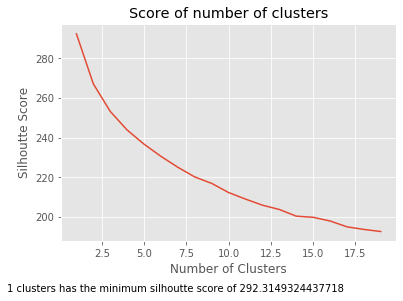
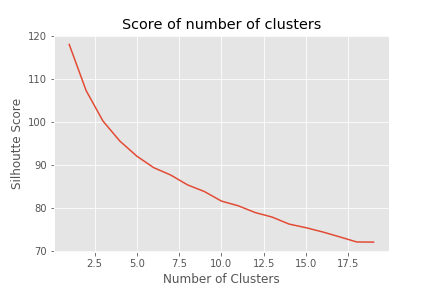
added labels to cluster

diff --git a/Neural Network/NeuralNetwork.py b/Neural Network/NeuralNetwork.py
@@ -6,7 +6,6 @@ from sklearn.model_selection import train_test_split
 import matplotlib.pyplot as plt
 from sklearn.cluster import KMeans
 from sklearn.decomposition import PCA
-from sklearn.metrics import silhouette_score
 
 plt.style.use('ggplot')
 
@@ -35,20 +34,15 @@ def plot_history(history):
     plt.title('Training and validation loss')
     plt.legend()
     
-def clustering(data, cluster_number, visualize=False):
+def clustering(data, title, cluster_number, visualize=False, labels=None):
     if isinstance(data, pd.DataFrame):
-        data = np.array(df_DA)
+        data = np.array(data)
     #elif not isinstance(data, np.array):
      #   print("Data must be in an numpy array or pandas data frame")
     try:    
         kmeans = KMeans(n_clusters=cluster_number).fit(data)
     except Exception:
         print("Data must be in an numpy array or pandas data frame")
-        
-    try:
-        score = (silhouette_score(data, labels=kmeans.predict(data)))
-    except Exception as error:
-        print(error)
     
     if (visualize == True):
         # reduce word vector to 2D
@@ -58,26 +52,40 @@ def clustering(data, cluster_number, visualize=False):
         # reduce the centroids to 2D
         centroid = pca.transform(kmeans.cluster_centers_)
         
-        txt = "Plot of Component 1 and Component 2 reduced from a 512 features word vector using PCA"
+        fileName = "C:\\Users\\anhai\\Desktop\\SMU\\Capstone\\Neural Network\\{}_PCA_{}_Clusters.png".format(title, cluster_number)
         
         fig = plt.figure()
-        plt.scatter(reduced_vector[:,0], reduced_vector[:,1], c=kmeans.predict(data))
+        s = plt.scatter(reduced_vector[:,0], reduced_vector[:,1], c=kmeans.predict(data))
+        if labels is not None:
+            labels['C_label'] = kmeans.labels_
+            labels['Counter'] = 1
+            group_data = labels.groupby(['C_label','Label'])['Counter'].sum()
+            legend_label = []
+            for index,new_df in group_data.groupby(level=0):
+                legend_label.append(new_df.idxmax()[1])
+            plt.legend(*s.legend_elements())
+            plt.xlim(right=max(reduced_vector[:,0])+.3)
+            for i, v in enumerate(legend_label):
+                print("%i is %s" %(i,v))
         plt.scatter(centroid[:, 0], centroid[:,1], s=150, c='r')
-        plt.title('Score of number of clusters')
+        plt.title('PCA reduced vectors')
         plt.xlabel('Component 1')
         plt.ylabel('component 2')
-        fig.text(0,-.05,txt)
+        fig.savefig(fileName)
+        
+    #Sum of squared distances of samples to their closest cluster center.
+    score = kmeans.inertia_ 
     
     return score
-     
-def plot_score(score):
+
+
+def plot_score(score, title):
     #plot score for number of clusters
     
-    index = score.index(max(score))+2
-    minimum = max(score)
-    txt = "{} clusters has the minimum silhoutte score of {}".format(index, minimum)
+    caption = "Sum of squared distances of samples to their closest cluster center."
+    fileName = "C:\\Users\\anhai\\Desktop\\SMU\\Capstone\\Neural Network\\{}_Inertia_Score.png".format(title)
     
-    x = range(2, len(score) + 2)
+    x = range(1, len(score) + 1)
 
     
     fig = plt.figure()
@@ -85,15 +93,17 @@ def plot_score(score):
     plt.title('Score of number of clusters')
     plt.xlabel('Number of Clusters')
     plt.ylabel('Silhoutte Score')
-    fig.text(0,-.05,txt)
+    fig.text(0,-.05,caption)
+    fig.savefig(fileName)
     
-def find_number_of_clusters(data, last, first=2):
+def find_number_of_clusters(data, title, last, first=1):
     score = []
 
     for i in range(first,last):
-        score.append(clustering(data,i))
+        score.append(clustering(data, title, i))
     
-    plot_score(score)
+    plot_score(score, title)
+    
 
 
 #load Feature csv files
@@ -105,22 +115,41 @@ df_SE = pd.read_csv('C:\\Users\\anhai\\Desktop\\SMU\\Capstone\\Feature Vectors\\
 df_ST = pd.read_csv('C:\\Users\\anhai\\Desktop\\SMU\\Capstone\\Feature Vectors\\statistician_FV.csv', header=None)
 
 ########## KNN ClUSTERING ##########
-find_number_of_clusters(df_DA, 20)
-find_number_of_clusters(df_DB, 20)
-find_number_of_clusters(df_DE, 20)
-find_number_of_clusters(df_DS, 20)
-find_number_of_clusters(df_SE, 20)
-find_number_of_clusters(df_ST, 20)
+find_number_of_clusters(data=df_DA, title="DA", last=20)
+find_number_of_clusters(data=df_DB, title="DB", last=20)
+find_number_of_clusters(data=df_DE, title="DE", last=20)
+find_number_of_clusters(data=df_DS, title="DS", last=20)
+find_number_of_clusters(data=df_SE, title="SE", last=20)
+find_number_of_clusters(data=df_ST, title="ST", last=20)
 
-clustering(df_DS,2,True)
+clustering(data=df_DA, title="DA", cluster_number=3,visualize=True)
+clustering(data=df_DB, title="DB", cluster_number=3,visualize=True)
+clustering(data=df_DE, title="DE", cluster_number=3,visualize=True)
+clustering(data=df_DS, title="DS", cluster_number=3,visualize=True)
+clustering(data=df_SE, title="SE", cluster_number=3,visualize=True)
+clustering(data=df_ST, title="ST", cluster_number=3,visualize=True)
 
 #convert dataframe into matrix array and concantonate into one
-array = np.concatenate((np.array(df_DA), np.array(df_DB), np.array(df_DE), 
-                        np.array(df_DS), np.array(df_SE), np.array(df_ST)), axis=0)
+df_Combined = pd.concat([df_DA, df_DB, 
+                      df_DE, df_DS, 
+                      df_SE, df_ST])
 
-find_number_of_clusters(array, 20)
+find_number_of_clusters(df_Combined, "Combined", 20)
 
-clustering(array,2,True)
+#clustering with labels
+df_DA['Label'] = "DA"
+df_DB['Label'] = "DB"
+df_DE['Label'] = "DE"
+df_DS['Label'] = "DS"
+df_SE['Label'] = "SE"
+df_ST['Label'] = "ST"
+
+df_label = pd.DataFrame(pd.concat([df_DA['Label'], df_DB['Label'], 
+                      df_DE['Label'], df_DS['Label'], 
+                      df_SE['Label'], df_ST['Label']]))
+
+clustering(data=df_Combined, title="Combined", cluster_number=4,visualize=True)
+clustering(data=df_Combined, title="Combined", cluster_number=6,visualize=True, labels=df_label)
 
 
 ########## NEURAL NETWORK ##########
